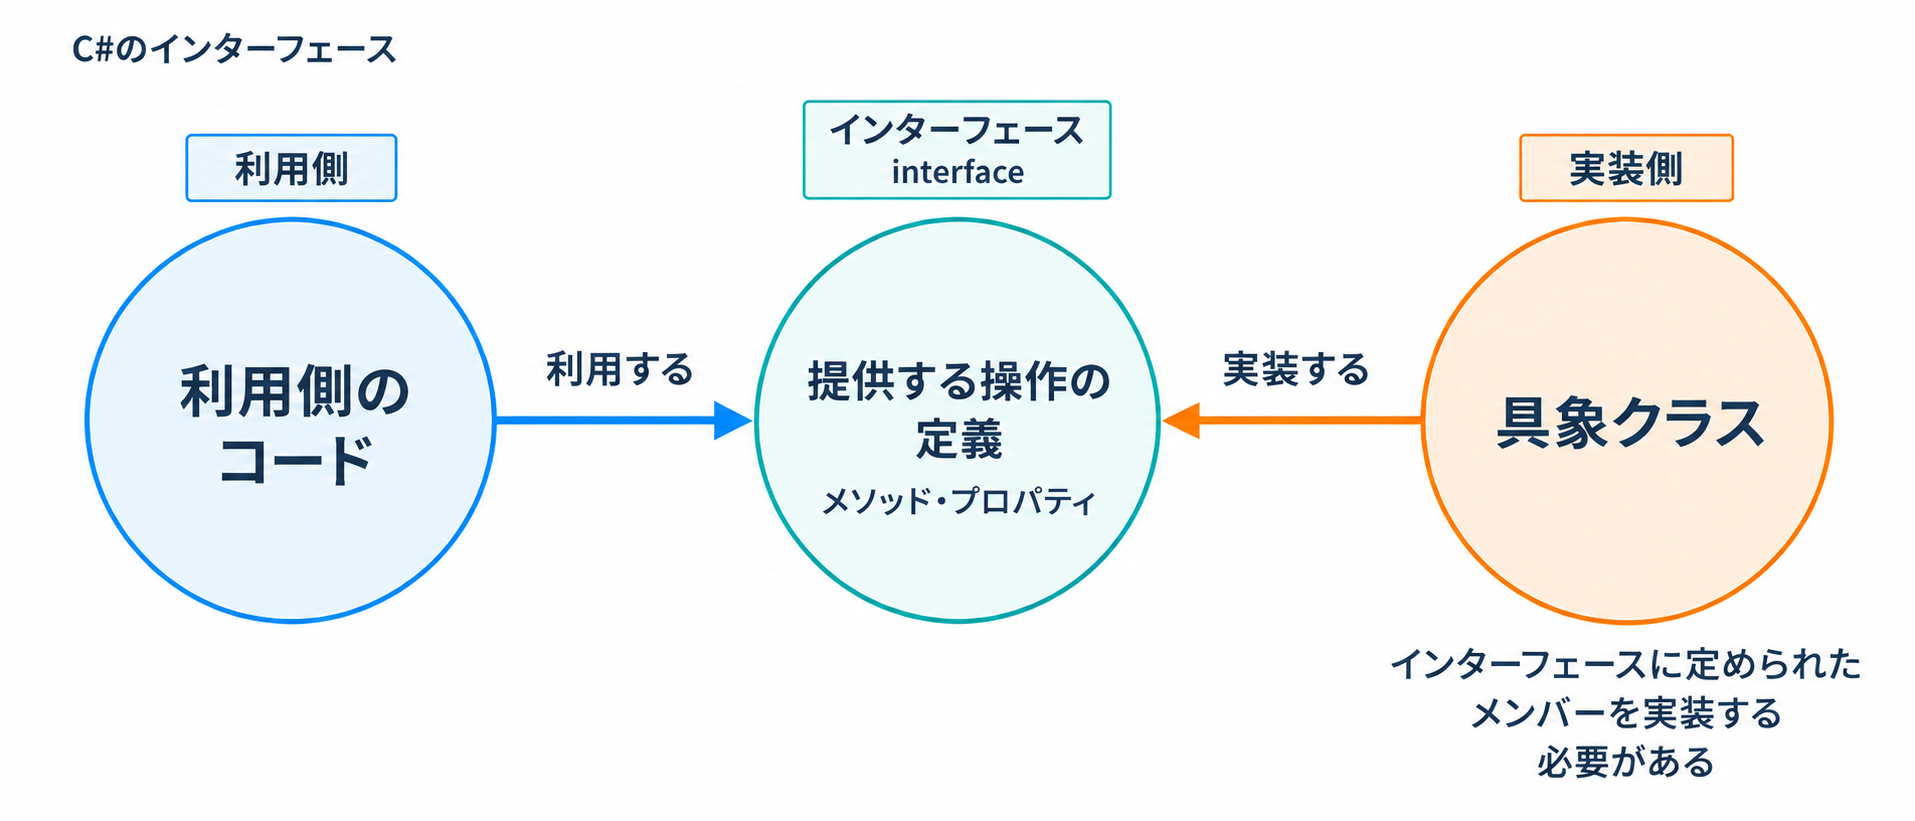
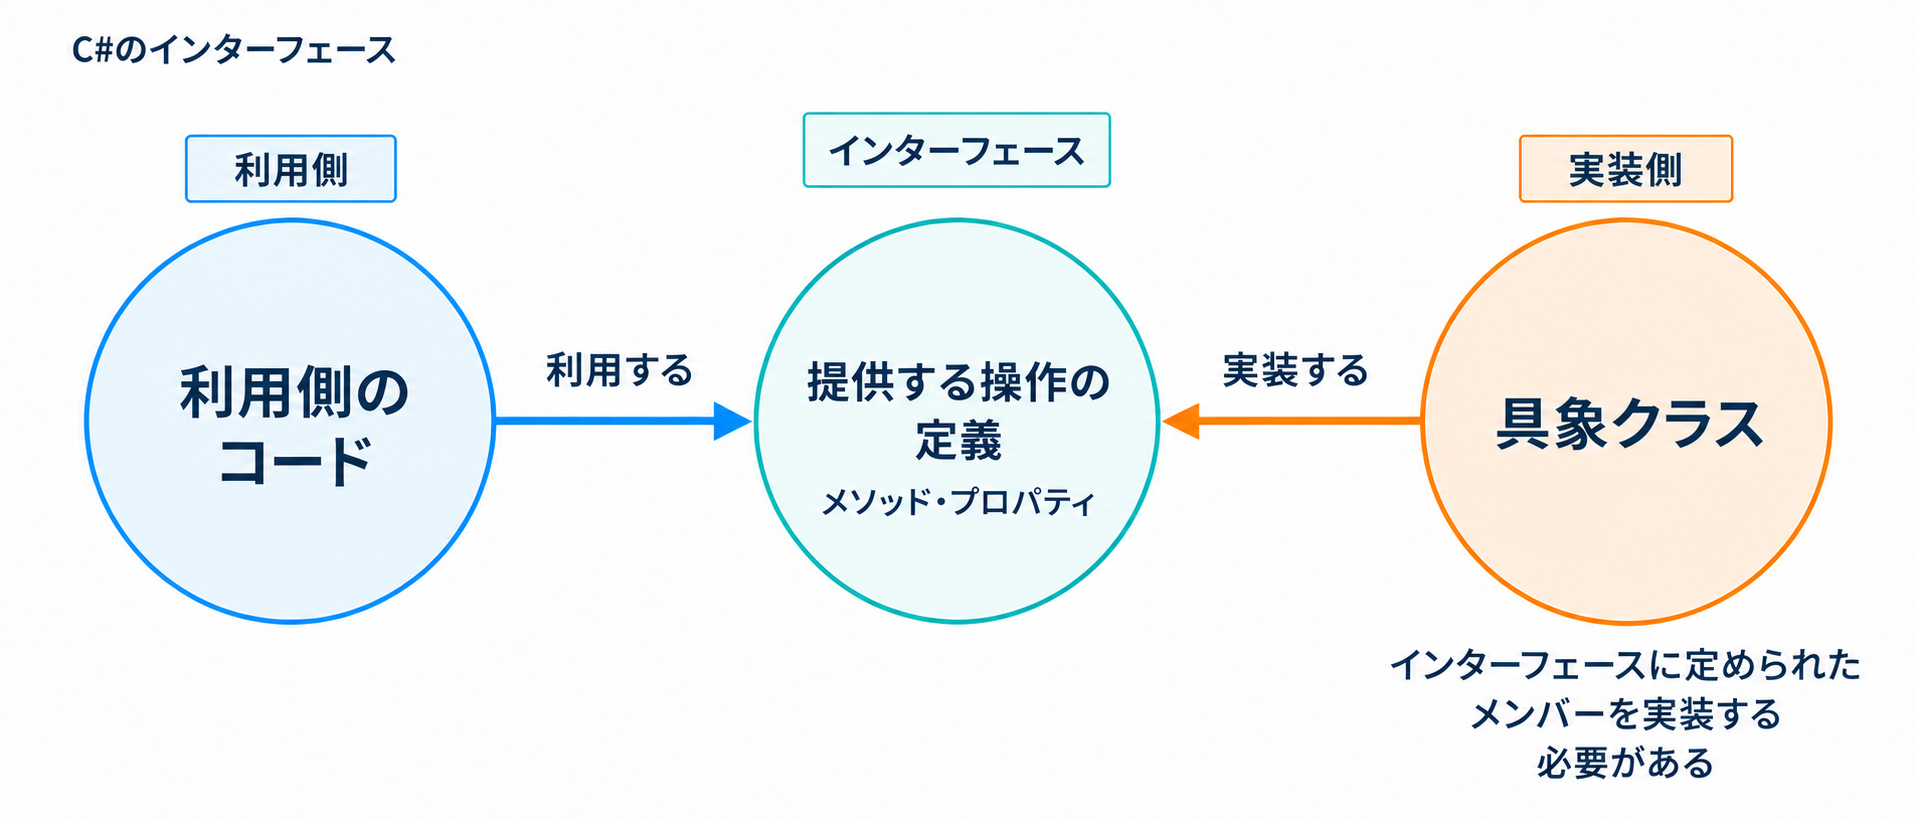
インターフェースのメリットを図で整理

diff --git a/articles/csharp-interface-purpose.md b/articles/csharp-interface-purpose.md
@@ -217,6 +217,8 @@ public class CheckoutService
 
 たとえば、クレジットカードや銀行振込のほかに、QRコード決済が追加されることになったとします。インターフェースを利用している場合は、`IPaymentMethod`を実装するクラスを新しく用意します。
 
+![IPaymentMethodを実装する支払い方法を追加しても、利用側とインターフェースは変更しない](/images/csharp-interface-purpose/payment-add-implementation.png)
+
 ```cs
 public class QrCodePaymentMethod : IPaymentMethod
 {
@@ -271,6 +273,8 @@ public class QrCodePaymentMethod : IPaymentMethod
 ### 4. 実装を差し替えやすい
 
 インターフェースを利用すると、利用側を変更せずに実装を差し替えやすくなります。ここでは、アップロードされた文書の保存先を例に考えます。開発環境ではローカルへ保存し、本番環境ではAmazon S3へ保存したいとします。
+
+![IStorageServiceの実装を差し替えても、DocumentServiceとインターフェースは変更しない](/images/csharp-interface-purpose/storage-switch-implementation.png)
 
 まず、ファイルを保存するための契約を`IStorageService`として定めます。ローカルへ保存するクラスとS3へ保存するクラスは、どちらもこのインターフェースを実装します。
 
@@ -358,6 +362,8 @@ public class DocumentService
 ### 5. テストしやすい
 
 実装を差し替えやすいことは、テストのしやすさにもつながります。`CheckoutService`をテストするときに、クレジットカード会社のシステムへ接続して実際の決済を行うわけにはいきません。そこで、実際の決済を行わないテスト用の実装を用意します。
+
+![IPaymentMethodの本番用実装をテスト用実装へ差し替えても、CheckoutServiceとインターフェースは変更しない](/images/csharp-interface-purpose/payment-test-implementation.png)
 
 実際の開発では、Moqなどのモックライブラリにインターフェースを指定し、その契約を満たすテスト用オブジェクトを作ることも一般的です。ここでは、実装を差し替えていることが分かりやすいように`FakePaymentMethod`を手書きします。
 
